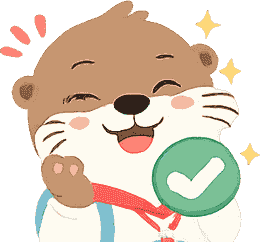
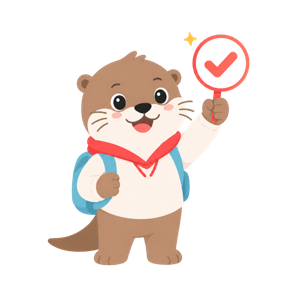
ezai-timetable：替换课表空状态图。 ezai-community：用于社区冷启动空状态。 ezai-message：用于消息、评论相关空状态。 ezai-done：用于发布成功后的轻量成功提示。 ezai-knowledge：放到“关于我们”里的深汕e仔介绍区。

diff --git a/miniprogram/pages/publish/publish.js b/miniprogram/pages/publish/publish.js
@@ -41,7 +41,8 @@ Page({
     hasDraft: false,
     submitting: false,
     uploadProgress: 0,
-    submitStatusText: ''
+    submitStatusText: '',
+    successTip: null
   },
 
   onLoad(options = {}) {
@@ -518,11 +519,11 @@ Page({
       this.setData({
         hasDraft: false,
         uploadProgress: 100,
-        submitStatusText: pendingReview ? '已提交审核' : '已发布'
-      })
-      wx.showToast({
-        title: pendingReview ? '已提交，审核通过后展示' : '已发布，去看看',
-        icon: 'none'
+        submitStatusText: pendingReview ? '已提交审核' : '已发布',
+        successTip: {
+          title: pendingReview ? '已提交审核' : '已发布',
+          desc: pendingReview ? '审核通过后会展示在社区。' : '正在带你去看看这条内容。'
+        }
       })
       const pages = getCurrentPages()
       const prev = pages[pages.length - 2]

diff --git a/tools/cut-brand-assets.js b/tools/cut-brand-assets.js
@@ -218,6 +218,12 @@ async function main() {
       true
     )
   }
+
+  await resizeImage(source('ezai-timetable.png'), 'empty/timetable.png', 340)
+  await resizeImage(source('ezai-community.png'), 'empty/community.png', 340)
+  await resizeImage(source('ezai-message.png'), 'empty/message.png', 320)
+  await resizeImage(source('ezai-done.png'), 'stickers/done.png', 300)
+  await resizeImage(source('ezai-knowledge.png'), 'stickers/knowledge.png', 320)
 }
 
 main().catch(error => {

diff --git a/miniprogram/pages/community/community.js b/miniprogram/pages/community/community.js
@@ -30,7 +30,8 @@ Page({
     page: 1,
     size: 20,
     total: 0,
-    loading: false
+    loading: false,
+    emptyImage: '/assets/brand/empty/community.png'
   },
 
   onLoad() {
@@ -85,7 +86,7 @@ Page({
         searchedKeyword: activeKeyword,
         emptyTitle: activeKeyword ? '没找到相关内容' : '还没有内容',
         emptyDesc: activeKeyword ? '可以换个关键词，或者直接发个提问让同学来答。' : '可以发一条攻略、提问、失物招领或校园瞬间。',
-        emptyImage: activeKeyword ? '/assets/brand/empty/question.png' : '/assets/brand/empty/note.png'
+        emptyImage: activeKeyword ? '/assets/brand/empty/question.png' : '/assets/brand/empty/community.png'
       })
     } catch (err) {
       showError(err)